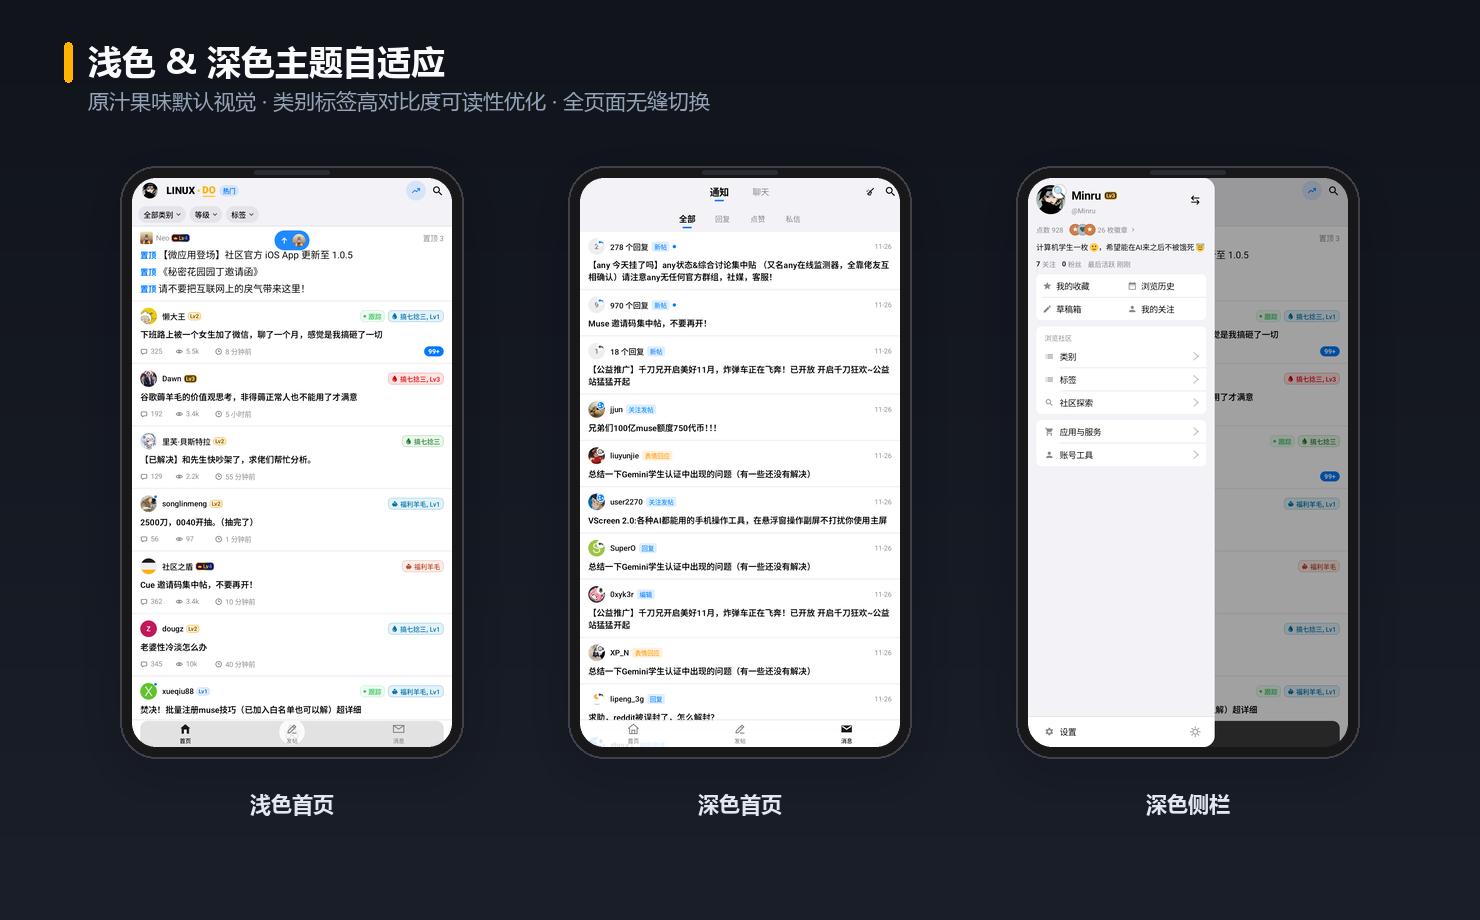
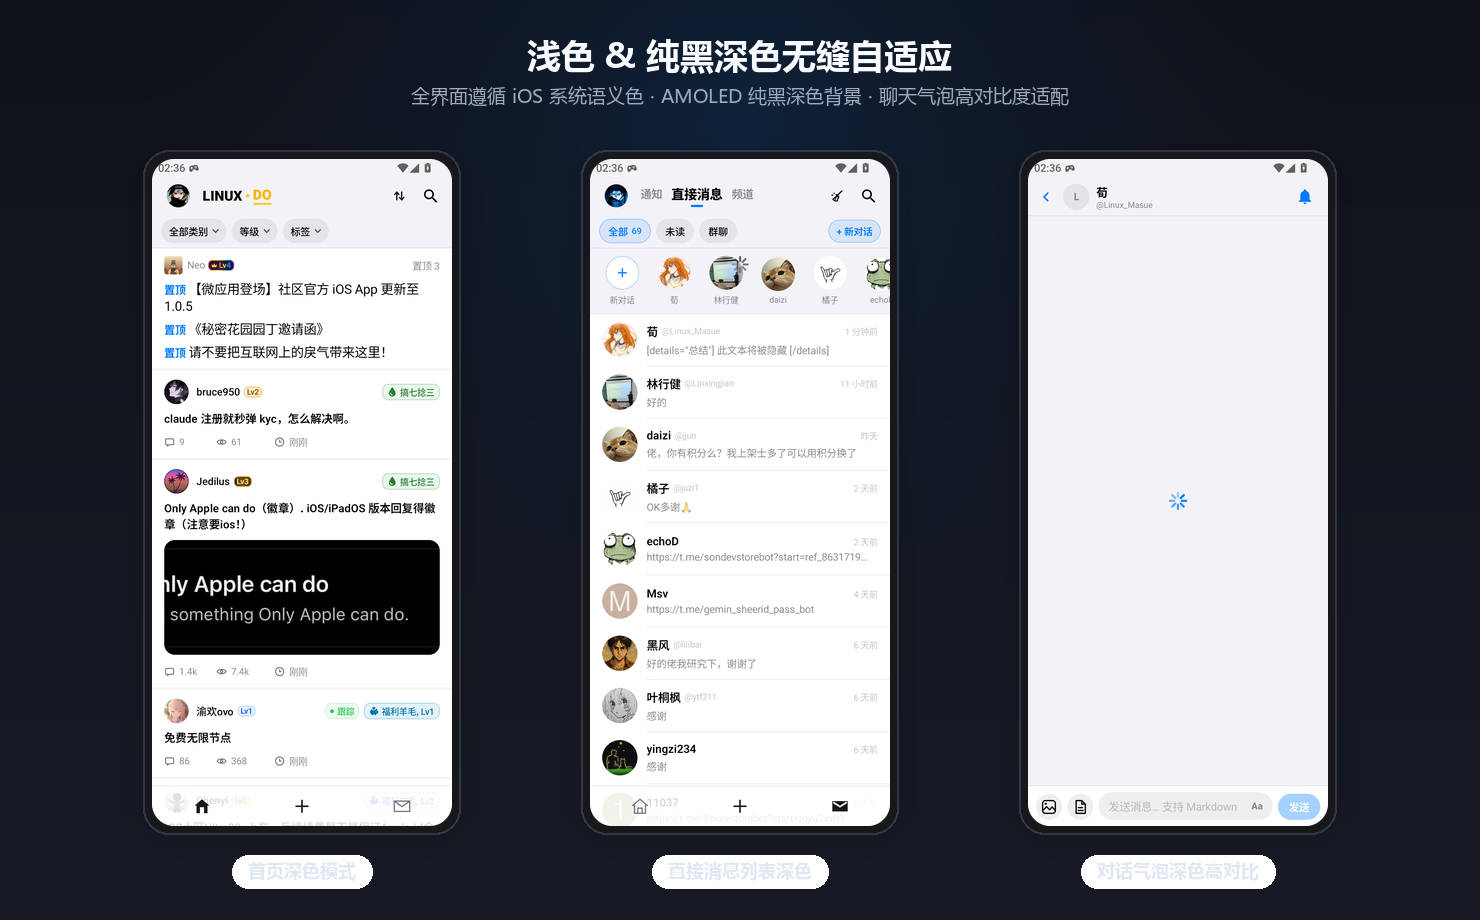
发布增强版 1.3.0：更新 README 亮点展板与动态演示、版本号及应用内更新公告

diff --git a/README.md b/README.md
@@ -1,6 +1,6 @@
 <div align="center">
 
-<img src="./.github/assets/hero-banner.png" alt="LinuxDo 增强版 1.2.5" width="100%" />
+<img src="./.github/assets/hero-banner.png" alt="LinuxDo 增强版 1.3.0" width="100%" />
 
 <br />
 
@@ -12,8 +12,8 @@
 </p>
 
 <p>
-  <a href="https://github.com/Mingrui-Ai/linuxdo-android/releases/tag/enhanced-v1.2.5">
-    <img src="https://img.shields.io/badge/Release-v1.2.5-FFB300?style=for-the-badge&logo=android&logoColor=white" alt="Release v1.2.5" />
+  <a href="https://github.com/Mingrui-Ai/linuxdo-android/releases/tag/enhanced-v1.3.0">
+    <img src="https://img.shields.io/badge/Release-v1.3.0-FFB300?style=for-the-badge&logo=android&logoColor=white" alt="Release v1.3.0" />
   </a>
   <img src="https://img.shields.io/badge/Android-8.0%2B%20(ARM64)-3DDC84?style=for-the-badge&logo=android&logoColor=white" alt="Android 8.0+" />
   <img src="https://img.shields.io/badge/Jetpack-Compose-4285F4?style=for-the-badge&logo=jetpackcompose&logoColor=white" alt="Jetpack Compose" />
@@ -23,13 +23,13 @@
 </p>
 
 <p>
-  <a href="https://github.com/Mingrui-Ai/linuxdo-android/releases/tag/enhanced-v1.2.5"><strong>⬇ 下载增强版 1.2.5 APK</strong></a>
+  <a href="https://github.com/Mingrui-Ai/linuxdo-android/releases/tag/enhanced-v1.3.0"><strong>⬇ 下载增强版 1.3.0 APK</strong></a>
   &nbsp;·&nbsp;
-  <a href="#-动态演示">动态演示</a>
+  <a href="#-动态亮点演示">动态演示</a>
   &nbsp;·&nbsp;
   <a href="#-界面一览">界面一览</a>
   &nbsp;·&nbsp;
-  <a href="#-v125-更新">v1.2.5 更新</a>
+  <a href="#-v130-重磅更新">v1.3.0 更新</a>
   &nbsp;·&nbsp;
   <a href="#-下载与构建">构建指南</a>
 </p>
@@ -38,18 +38,25 @@
 
 ---
 
-## ✨ 动态演示
+## ✨ 动态亮点演示
 
 <div align="center">
 <table>
   <tr>
-    <td align="center" width="50%">
-      <strong>多维筛选 · 动态排序 · 快捷手势</strong><br /><br />
-      <img src="./.github/assets/demo-home-filter.gif" width="290" alt="首页多维筛选与排序演示" />
+    <td align="center" width="33%">
+      <strong>💬 实时回复 · 跳动三点动画</strong><br />
+      <sub>对齐网页 Presence，头像 + 1.8s 三点波浪</sub><br /><br />
+      <img src="./.github/assets/demo-reply-presence.gif" width="245" alt="帖子实时回复状态与跳动三点动画演示" />
     </td>
-    <td align="center" width="50%">
-      <strong>进帖自动跟踪 · 顶栏三按钮 · 帖内搜索</strong><br /><br />
-      <img src="./.github/assets/demo-topic-reading.gif" width="290" alt="读帖自动跟踪与顶栏三按钮演示" />
+    <td align="center" width="33%">
+      <strong>✍ 全场景 Markdown 编辑与预览</strong><br />
+      <sub>常态精简 Aa · 全屏云端工具栏 · 离线预览</sub><br /><br />
+      <img src="./.github/assets/demo-markdown-composer.gif" width="245" alt="Markdown 编辑器与实时预览演示" />
+    </td>
+    <td align="center" width="33%">
+      <strong>📨 重构消息 & 直接消息 MD 对话</strong><br />
+      <sub>与首页零位移切换 · IM 双行 · 气泡 MD</sub><br /><br />
+      <img src="./.github/assets/demo-messages-dm.gif" width="245" alt="消息板块重构与直接消息演示" />
     </td>
   </tr>
 </table>
@@ -59,17 +66,20 @@
 
 ## 📱 界面一览
 
-### 首页筛选与快捷手势
-<img src="./.github/assets/showcase-home-filter.png" alt="首页多维筛选与右滑免打扰" width="100%" />
+### ✍ 全场景 Markdown 编辑 · 云端对齐工具栏 · 新版发帖页
+<img src="./.github/assets/showcase-markdown-creator.png" alt="全场景 Markdown 编辑器、离线预览与新版发帖页" width="100%" />
 
-### 清爽读帖与自动跟踪
-<img src="./.github/assets/showcase-topic-reading.png" alt="清爽读帖与顶栏三按钮" width="100%" />
+### 💬 全新消息板块 · 重构直接消息与 Markdown 气泡
+<img src="./.github/assets/showcase-messages-dm.png" alt="全新消息板块与直接消息 Markdown 对话气泡" width="100%" />
 
-### 个人侧栏 · 详细主页 · 实时消息
-<img src="./.github/assets/showcase-profile-chat.png" alt="个人侧栏、详细主页与实时消息" width="100%" />
+### 📖 清爽读帖 · 回复数与楼中楼排序 · 紧凑简评与表情回应
+<img src="./.github/assets/showcase-topic-reading.png" alt="清爽读帖、回复排序模式、紧凑简评与表情回应" width="100%" />
 
-### 浅色 & 深色自适应
-<img src="./.github/assets/showcase-dark-mode.png" alt="浅色与深色模式对比" width="100%" />
+### 🏠 首页多维筛选 · 最新动态排序 · 低等级权限提示
+<img src="./.github/assets/showcase-home-filter.png" alt="首页多维筛选、最新动态排序与低等级权限提示" width="100%" />
+
+### 🌙 浅色 & AMOLED 纯黑深色自适应
+<img src="./.github/assets/showcase-dark-mode.png" alt="浅色与纯黑深色模式对比" width="100%" />
 
 ---
 
@@ -77,44 +87,36 @@
 
 | 模块 | 亮点 |
 | --- | --- |
-| **首页筛选与排序** | `类别 / 等级 / 标签` 三维度自由组合，下拉菜单仅展示具体选项，通过已选胶囊的 × 或重置清除筛选，支持长按置顶与排序；6 项排序（最新 / 最新动态 / 最新发布 / 热门 / 点赞 / 浏览），按筛选组合独立记忆。“最新”跟随网站默认，分类可能按发帖时间排列；“最新动态”明确请求最近活动优先；点赞按整个话题总赞数（含回复）。紧凑排序菜单使用简短说明，首页、分类及标签页共用；本地预览后正常拉取远端结果，取消或失败后结束加载，限流时保留内容并提示重试；范围搜索自动带入当前筛选。 |
-| **清爽刷帖与跟踪** | 默认阅读正文 3 秒后自动切换为「跟踪」，可在设置 → 阅读与浏览中关闭或自定等待秒数；仅计算前台连续阅读，保留手动通知设置；头像蓝点表示尚未看过，正文在前台显示 1.2 秒后本机消点，按账号保存，刷新、切换筛选或重启不依赖远端回执；未读回复仍独立用 `+N` / `99+` 提示，实际楼层与时长继续按原规则同步；主页左滑帖子一键「关注 / 免打扰」；顶栏精简为「搜索 / 编辑 / 铃铛四态」三按钮；详情页回复排序与筛选下拉栏统一；X 风格新帖头像胶囊提示，左侧头像叠在最上层。 |
-| **消息与实时聊天** | 通知、频道、私聊集中于「消息」页，统一首页顶栏与筛选样式，支持实时推送、批量已读、搜索与下拉刷新；直接消息支持原地输入、Markdown 编辑与气泡渲染，常用联系人快捷栏可在设置中开关；底栏只显示图标，中间加号用于发帖，保留消息未读角标；横滑即可在首页与消息间切换，二级页面统一自动隐藏底栏。 |
-| **个人主页与侧栏** | 侧栏固定展示等级、状态、点数、勋章、简介与关注粉丝；详细主页支持 26 项自定义显示开关、封面大图与原生资料编辑；头像资料卡背景覆盖紧凑拖动栏，右侧可快捷关注或聊天；详细主页头像右侧纵向显示关注和聊天，右上角提供分享、通知铃铛与更多菜单。 |
-| **收藏、草稿与记录** | 徽章、草稿、关注、历史和收藏页统一顶栏与筛选样式；收藏支持标题与内容搜索；草稿可按新话题或回复筛选，回复草稿补充原帖作者头像。 |
-| **帖子表情回应** | 长按点赞选择表情，按钮直接显示当前所选表情、不带红色背景圈，点击可取消、长按可更换；回应图标按数量降序排列，末尾仅显示总数，与网页一致；提交中防止重复操作，失败恢复原表情与计数。 |
-| **回复编辑与恢复** | 回帖输入框支持紧凑模式、全屏 Markdown 工具栏和实时预览，可插入折叠总结；优化键盘展开与关闭，压缩简评输入栏。首页翻页失败后从失败页重试，帖子加载失败保留已选作者；小程序授权状态恢复时及时显示授权页，重进失败会话时重新初始化。 |
-| **创建话题** | 标题下方可用首页同款分类栏选择发帖分类、可用等级和多个标签。正文支持紧凑输入和展开写作，底部使用与回帖相同的 Markdown 菜单，可以随时切换编辑和预览。 |
-| **回复栏与实时提示** | 回复栏与顶栏同色，无上下分隔线和吸顶阴影，排序按钮与铃铛对齐。排序菜单可选「默认／全部展开」：默认保留楼中楼，只排序一级回帖，回复数按其下全部可见嵌套回复数量计算；全部展开时每层独立按时间、点赞或回复数排序。数量排序先补齐全帖可见楼层；楼中楼「查看全部回复」与「收起回复」统一右侧对齐。筛选右侧按网站实时状态显示头像与「正在回复」三点动画，无人回复、离开页面或连接失败时隐藏，复用话题实时连接。 |
-| **等级筛选提示** | 首页等级菜单标明「可见／未解锁／需登录／未开放」，低等级账号可查看当前等级及升级提示，并从「等级与积分」进入升级进度与积分页；网站已返回的可见分类优先，等级未知时提示待同步，不误判为 Lv0。 |
-| **首页滚动稳定性** | 上下栏收起后反向滑动恢复时，列表按顶栏完整内容高度保留位置，避免展开动画中的临时高度导致帖子先跳动再回落；筛选常驻、下拉刷新指示和底栏动画保持原有行为。 |
-| **发帖与聊天修复** | 草稿箱新建页显示在常驻页面上方；聊天常态与展开模式发送时使用当前编辑器正文，失败保留输入、取消后恢复按钮。气泡提高深浅色对比，代码保留表情短码原文，已渲染附件不重复显示，表格统一列宽。 |
-| **网络与细节体验** | 内置 DoH / ECH 与「内置网络 / 跟随系统」切换；图片与业务请求队列隔离；本地常用小程序广场（支持内置/外部打开）；全新「曜石黑底 · 跃升 L+」品牌图标与登录页。 |
-
-用户通知铃铛与网页版共用常规、免打扰和忽略设置；忽略按论坛权限开放，选择时限后生效。主页右上角分享和更多按钮随主题显示黑白色，铃铛按状态配色，忽略显示斜杠眼睛；下拉菜单与帖子铃铛共用样式。资料头像去掉黑白描边，右侧关注和聊天保留图标与文字，按钮均为 76×36dp、间距 4dp，整体与 78dp 头像居中对齐。通知读取轻量资料接口，30 秒内复用已同步状态并合并重复读取，过期时后台刷新，主页下拉刷新可主动同步。移除侧栏本地黑名单、旧名单存储及本地帖子过滤，旧名单不会自动变成网页忽略关系；常规浏览保留帖子缓存，忽略状态变化后返回帖子重新加载服务端内容。
+| **✍ 全场景 Markdown 编辑** | 回帖、发帖与直接消息共用全新 Markdown 编辑器：常态精简低矮不挡视野，点 `Aa` 展开常用格式条；展开全屏完整对齐 LINUX DO 云端（Discourse `composer-redesign`）底部工具栏，含引用下拉 `[details="总结"]` 折叠块、模糊剧透、表格、待办清单、投票与脚注；支持离线实时预览，软键盘随 `graphicsLayer` 丝滑跟手无卡顿。 |
+| **💬 重构消息与直接消息** | 与首页同源两层顶栏，底栏切换首页 ↔ 消息零位移秒切；通知 / 直接消息 / 频道三入口平级展示；直接消息采用 46dp IM 双行排版、顶部最近联系人快捷栏（设置中可开关，默认开启）与 `+ 新对话` 实时搜人；聊天气泡全面支持 Markdown（粗斜删、代码、引用、列表、表格、折叠块与表情）并强化浅深色高对比度。 |
+| **📖 沉浸读帖与实时互动** | 回复栏新增与网页端一致的 **「正在回复…」真实头像 + 1.8s 跳动三点波浪**；支持「默认楼中楼 / 全部展开」与 4 种排序（时间正序/倒序、按点赞数、按回复数），楼中楼操作统一右对齐；表情回应点击取消/长按切换，汇总图标降序合并单总数；简评栏压矮合并输入框与发送胶囊；支持「阅读后自动跟随」开关与等待时长设置，已看话题实时消除首页未读蓝点。 |
+| **🏠 首页筛选与流畅浏览** | `类别 / 等级 / 标签` 三维组合筛选，新增 **「最新动态」** 排序；等级菜单区分可见/未解锁/需登录，底部直达「等级与积分」；修复顶栏展开列表抖动与翻页恢复；支持左滑关注/免打扰、X 风格新帖头像胶囊（左高右低叠放）与独立列表排序记忆。 |
+| **👤 个人主页与侧栏** | 侧栏固定展示等级、状态、点数、勋章、简介与关注粉丝；详细主页支持 26 项自定义显示开关、封面大图、原生资料编辑与网页版常规/免打扰/忽略同步；草稿、收藏、徽章、关注与历史页统一视觉语言。 |
+| **🌐 网络与细节体验** | 内置 DoH / ECH 与「内置网络 / 跟随系统」切换；图片与业务请求队列隔离；常用小程序广场（授权失败自动恢复不遮挡）；全新「曜石黑底 · 跃升 L+」品牌图标与登录页。 |
 
 ---
 
-## 📦 v1.2.5 更新
+## 🎉 v1.3.0 重磅更新
 
-### 首页与筛选
+### ✍ 全场景 Markdown 编辑器与新版发帖页
+- 🚀 **回帖 Markdown 编辑器全面升级**：常态精简 + `Aa` 快捷格式条，全屏对齐云端工具栏分组顺序，内置离线实时预览，支持 `[details="总结"]` 折叠块、剧透、表格、待办、代码与投票。
+- 📝 **新版发帖页**：复用首页同款类别/标签筛选栏与 Markdown 编辑器，支持草稿箱一键新建与置顶防遮挡。
+- ⚡ **输入法丝滑动画与紧凑简评**：移除全局根布局重排，输入法展开/收起跟手不掉帧；简评栏字数移至右上角并合并输入与发送按钮；移除输入框底部“已与网页同步 / 已保存到手机”冗余提示行。
 
-- 修复分类筛选后长时间转圈、无法加载新帖的问题。
-- 限流时保留已加载内容，并提示等待后重试。
-- 移除三个筛选菜单的“全部”选项，可用 × 或“重置”清除筛选。
-- 底栏去掉小字，中间改为发帖加号。
+### 💬 消息板块与直接消息彻底重构
+- ✨ **首页同源顶栏，零位移秒切**：通知 / 直接消息 / 频道平级导航，切换首页与消息时左上角头像、右上角搜索与两级栏高度纹丝不动。
+- 💌 **标准 IM 双行会话 & 顶部快捷栏**：46dp 头像（群聊自动 2×2 拼贴）、全部/未读/群聊筛选胶囊、一键 `+ 新对话` 搜索发起；顶部最近联系人快捷栏可在「设置 → 通知与保活」中自由开关（默认开启）。
+- 🎨 **直接消息支持 Markdown 输入与气泡渲染**：复用回帖同款编辑器，气泡完整渲染服务端 HTML 与本地 Markdown，浅/深色高对比度清晰易读，并修复并发发送去重与草稿清理。
 
-### 个人资料
+### 📖 读帖体验与实时互动升级
+- 👀 **实时回复状态提示**：回复栏同步展示正在回复的佬友头像与 1.8 秒跳动三点波浪，与网页端 Presence 协议一致。
+- 🌲 **回复显示模式与排序分离**：排序菜单独立切换「默认（保留楼中楼）/ 全部展开」，新增 **「按回复数」** 排序；“查看全部回复”与“收起回复”统一右对齐；移除回复栏上下异色细边。
+- ❤ **表情回应与自动跟随**：主帖/回复点赞按钮去红圈背景、直接展示当前回应表情并汇总单一总数；新增「阅读后自动跟随」设置（默认 3 秒，可关闭或自定义 1–3600 秒）；已看话题自动消除首页未读蓝点。
 
-- 资料卡背景完整覆盖顶部，头像边缘与按钮布局更协调。
-- 新增分享、关注、聊天快捷入口，统一通知菜单样式。
-- 优化铃铛同步，移除本地黑名单，改用网页版免打扰／忽略。
-
-### 列表页面
-
-- 统一徽章、草稿、关注、历史和收藏页的顶栏与筛选样式。
-- 收藏支持标题与内容搜索；回复草稿补充原帖作者头像。
-- 更新弹窗按主题分组，标题与条目分层显示，长文字对齐更清楚。
+### 🏠 首页筛选、排序与稳定性修复
+- 🔥 **新增「最新动态」排序**，并精简排序菜单宽度与单行说明；优化新帖悬浮按钮头像叠放顺序。
+- 🛡 **低等级权限提示与积分入口**：等级菜单直观区分可见/未解锁状态，底部可一键直达「等级与积分」页面。
+- 🔧 **细节打磨**：修复首页上下栏展开时的列表抖动、翻页失败重载首屏，以及小程序授权失败后遮挡授权页的问题。
 
 ---
 
@@ -122,10 +124,10 @@
 
 ### 下载安装
 
-前往 [Releases](https://github.com/Mingrui-Ai/linuxdo-android/releases/tag/enhanced-v1.2.5) 下载 **`linuxdo-enhanced-1.2.5-arm64-v8a.apk`**（Android 8.0+ / `arm64-v8a`）。
+前往 [Releases](https://github.com/Mingrui-Ai/linuxdo-android/releases/tag/enhanced-v1.3.0) 下载 **`linuxdo-enhanced-1.3.0-arm64-v8a.apk`**（Android 8.0+ / `arm64-v8a`）。
 
-- 包名 `org.linuxdo.android.enhanced`，独立签名，可与原版共存；从增强版 `1.0 / 1.1 / 1.1.1 / 1.2.0` 升级可直接覆盖保留数据，并支持应用内自动检查更新。
-- 公开 Release 仅发布正式版 APK，附带 `version.json`、`SHA256SUMS` 与公开签名证书 `release-certificate.pem`。
+- 包名 `org.linuxdo.android.enhanced`，独立签名，可与原版共存；从增强版 `1.0 / 1.1 / 1.1.1 / 1.2.0 / 1.2.5` 升级可直接覆盖保留数据，并支持应用内自动检查更新。
+- 公开 Release 仅发布正式版 APK，附带 `version.json`、`SHA256SUMS`、`LICENSE`、`THIRD_PARTY_NOTICES` 与公开签名证书 `release-certificate.pem`。
 
 <details>
 <summary><strong>🛠 本地编译与签名构建指南（点击展开）</strong></summary>
